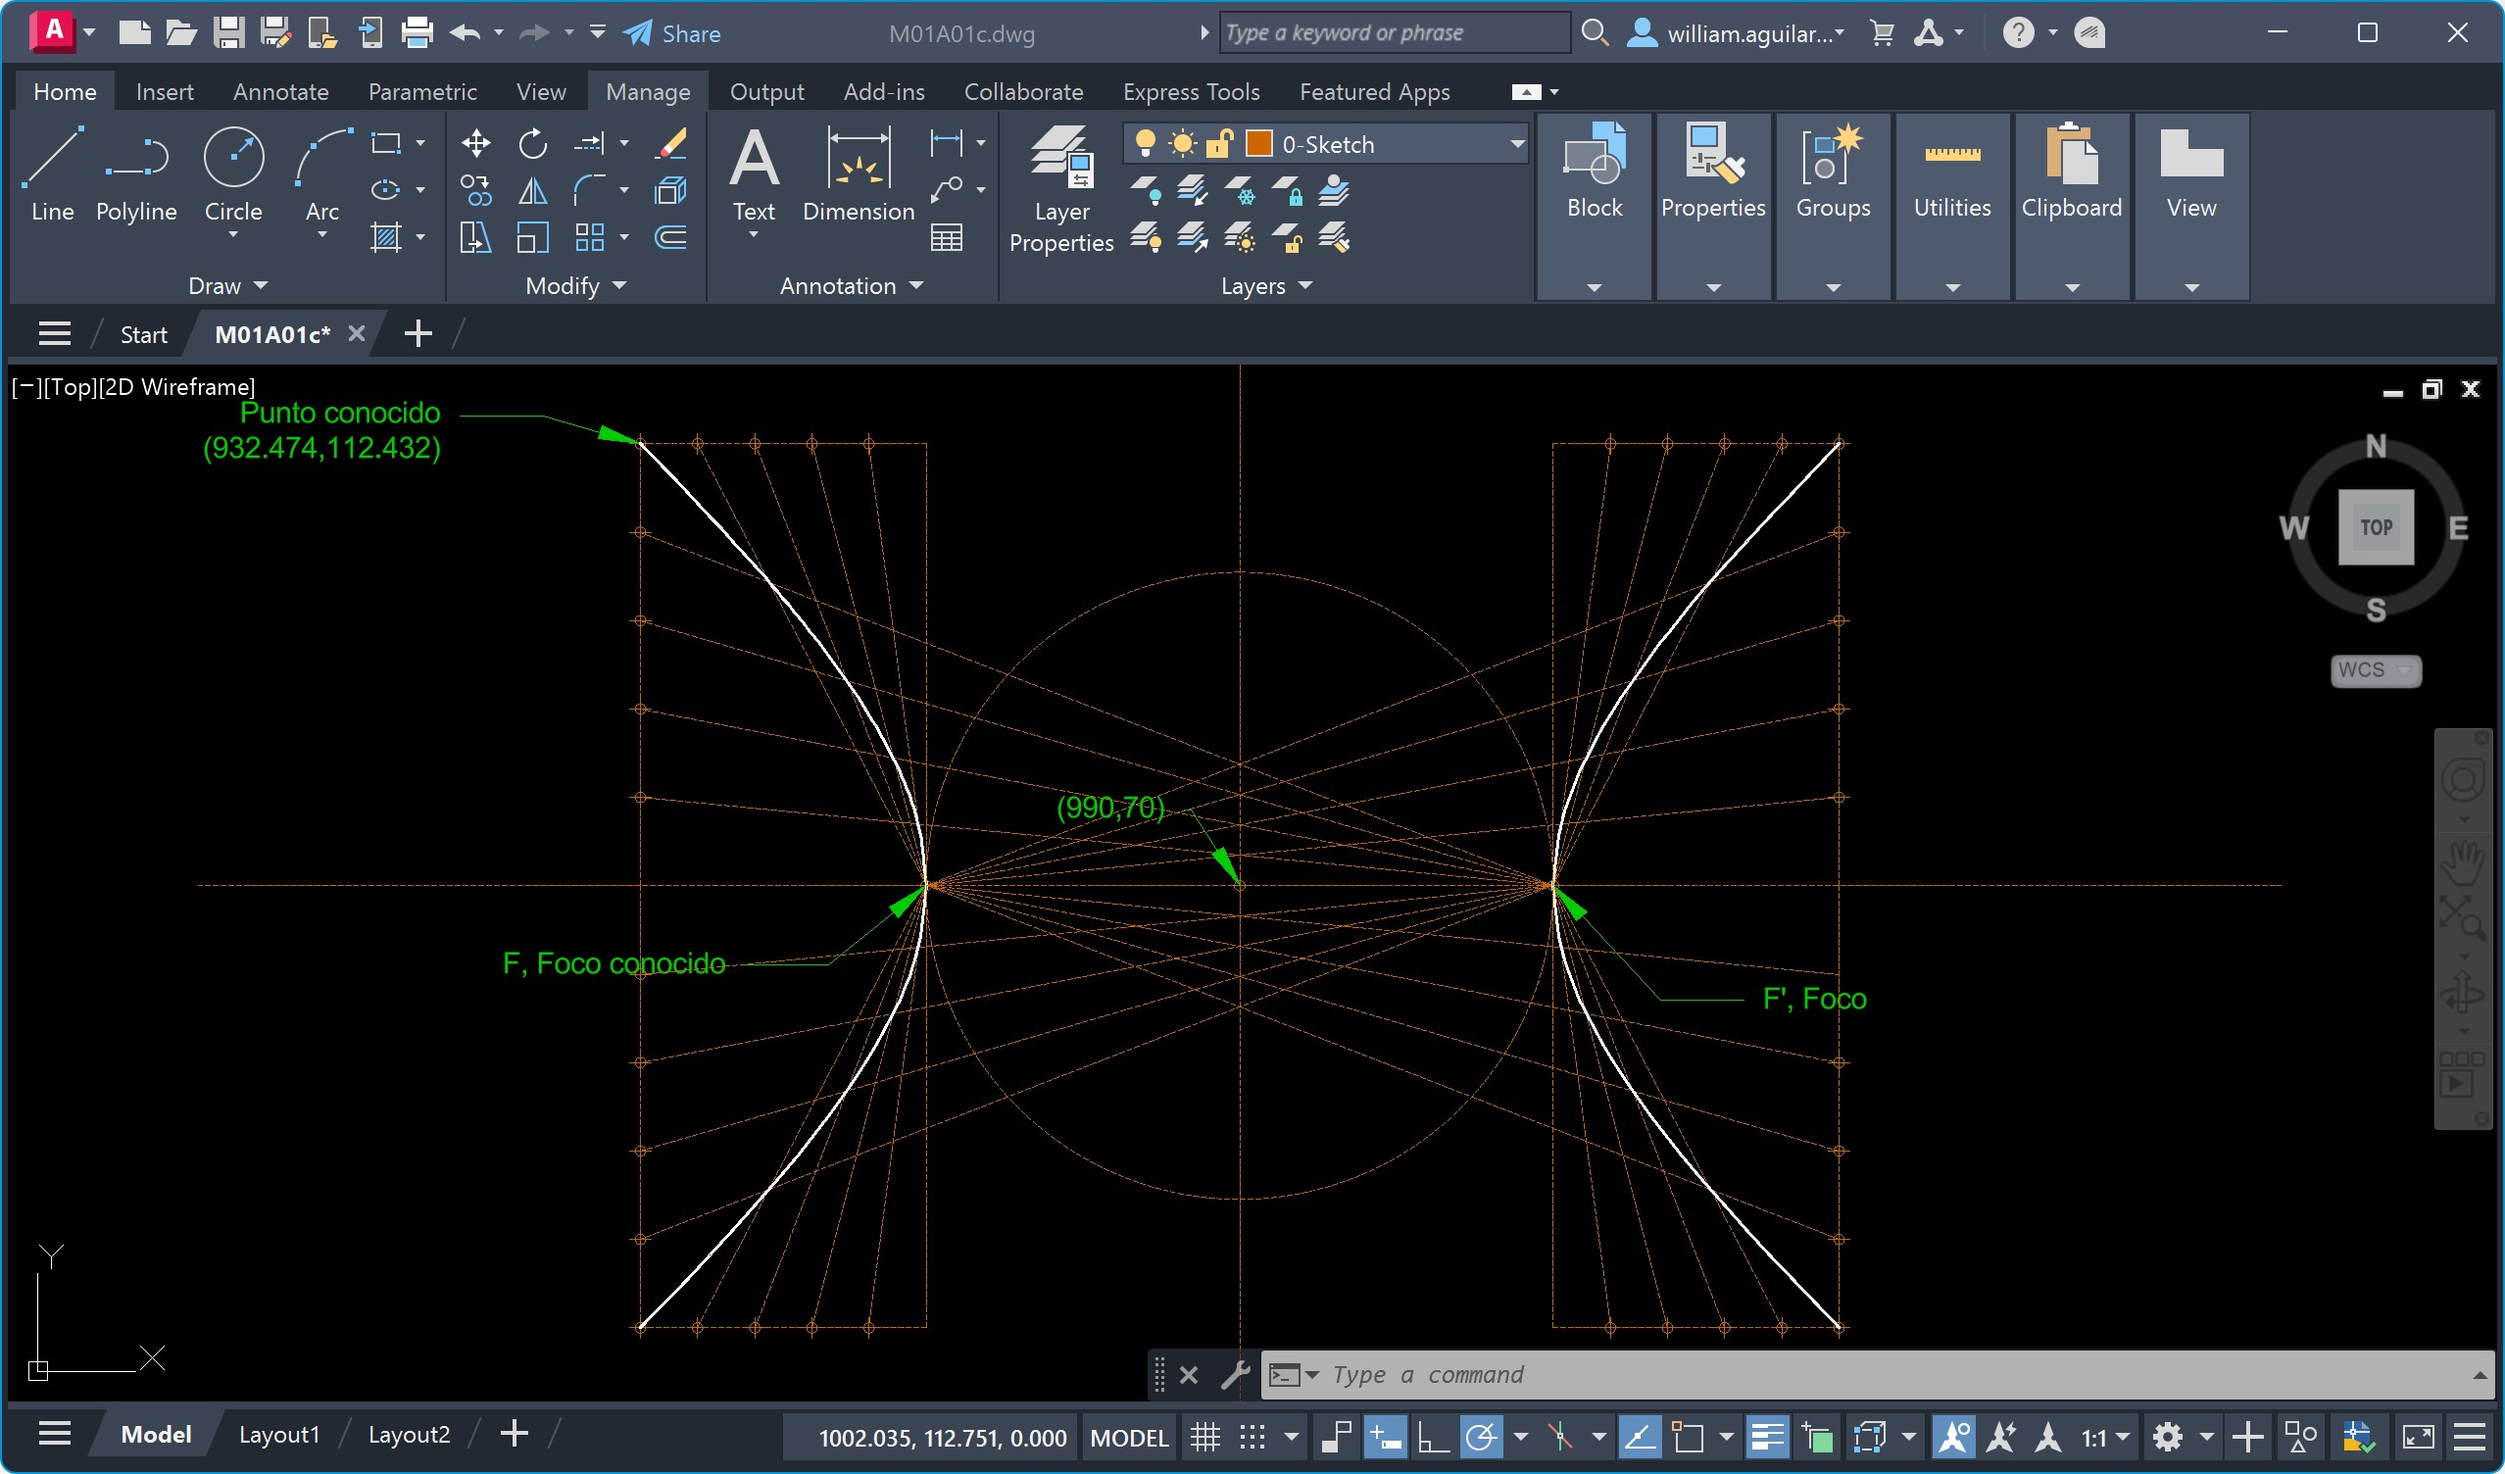
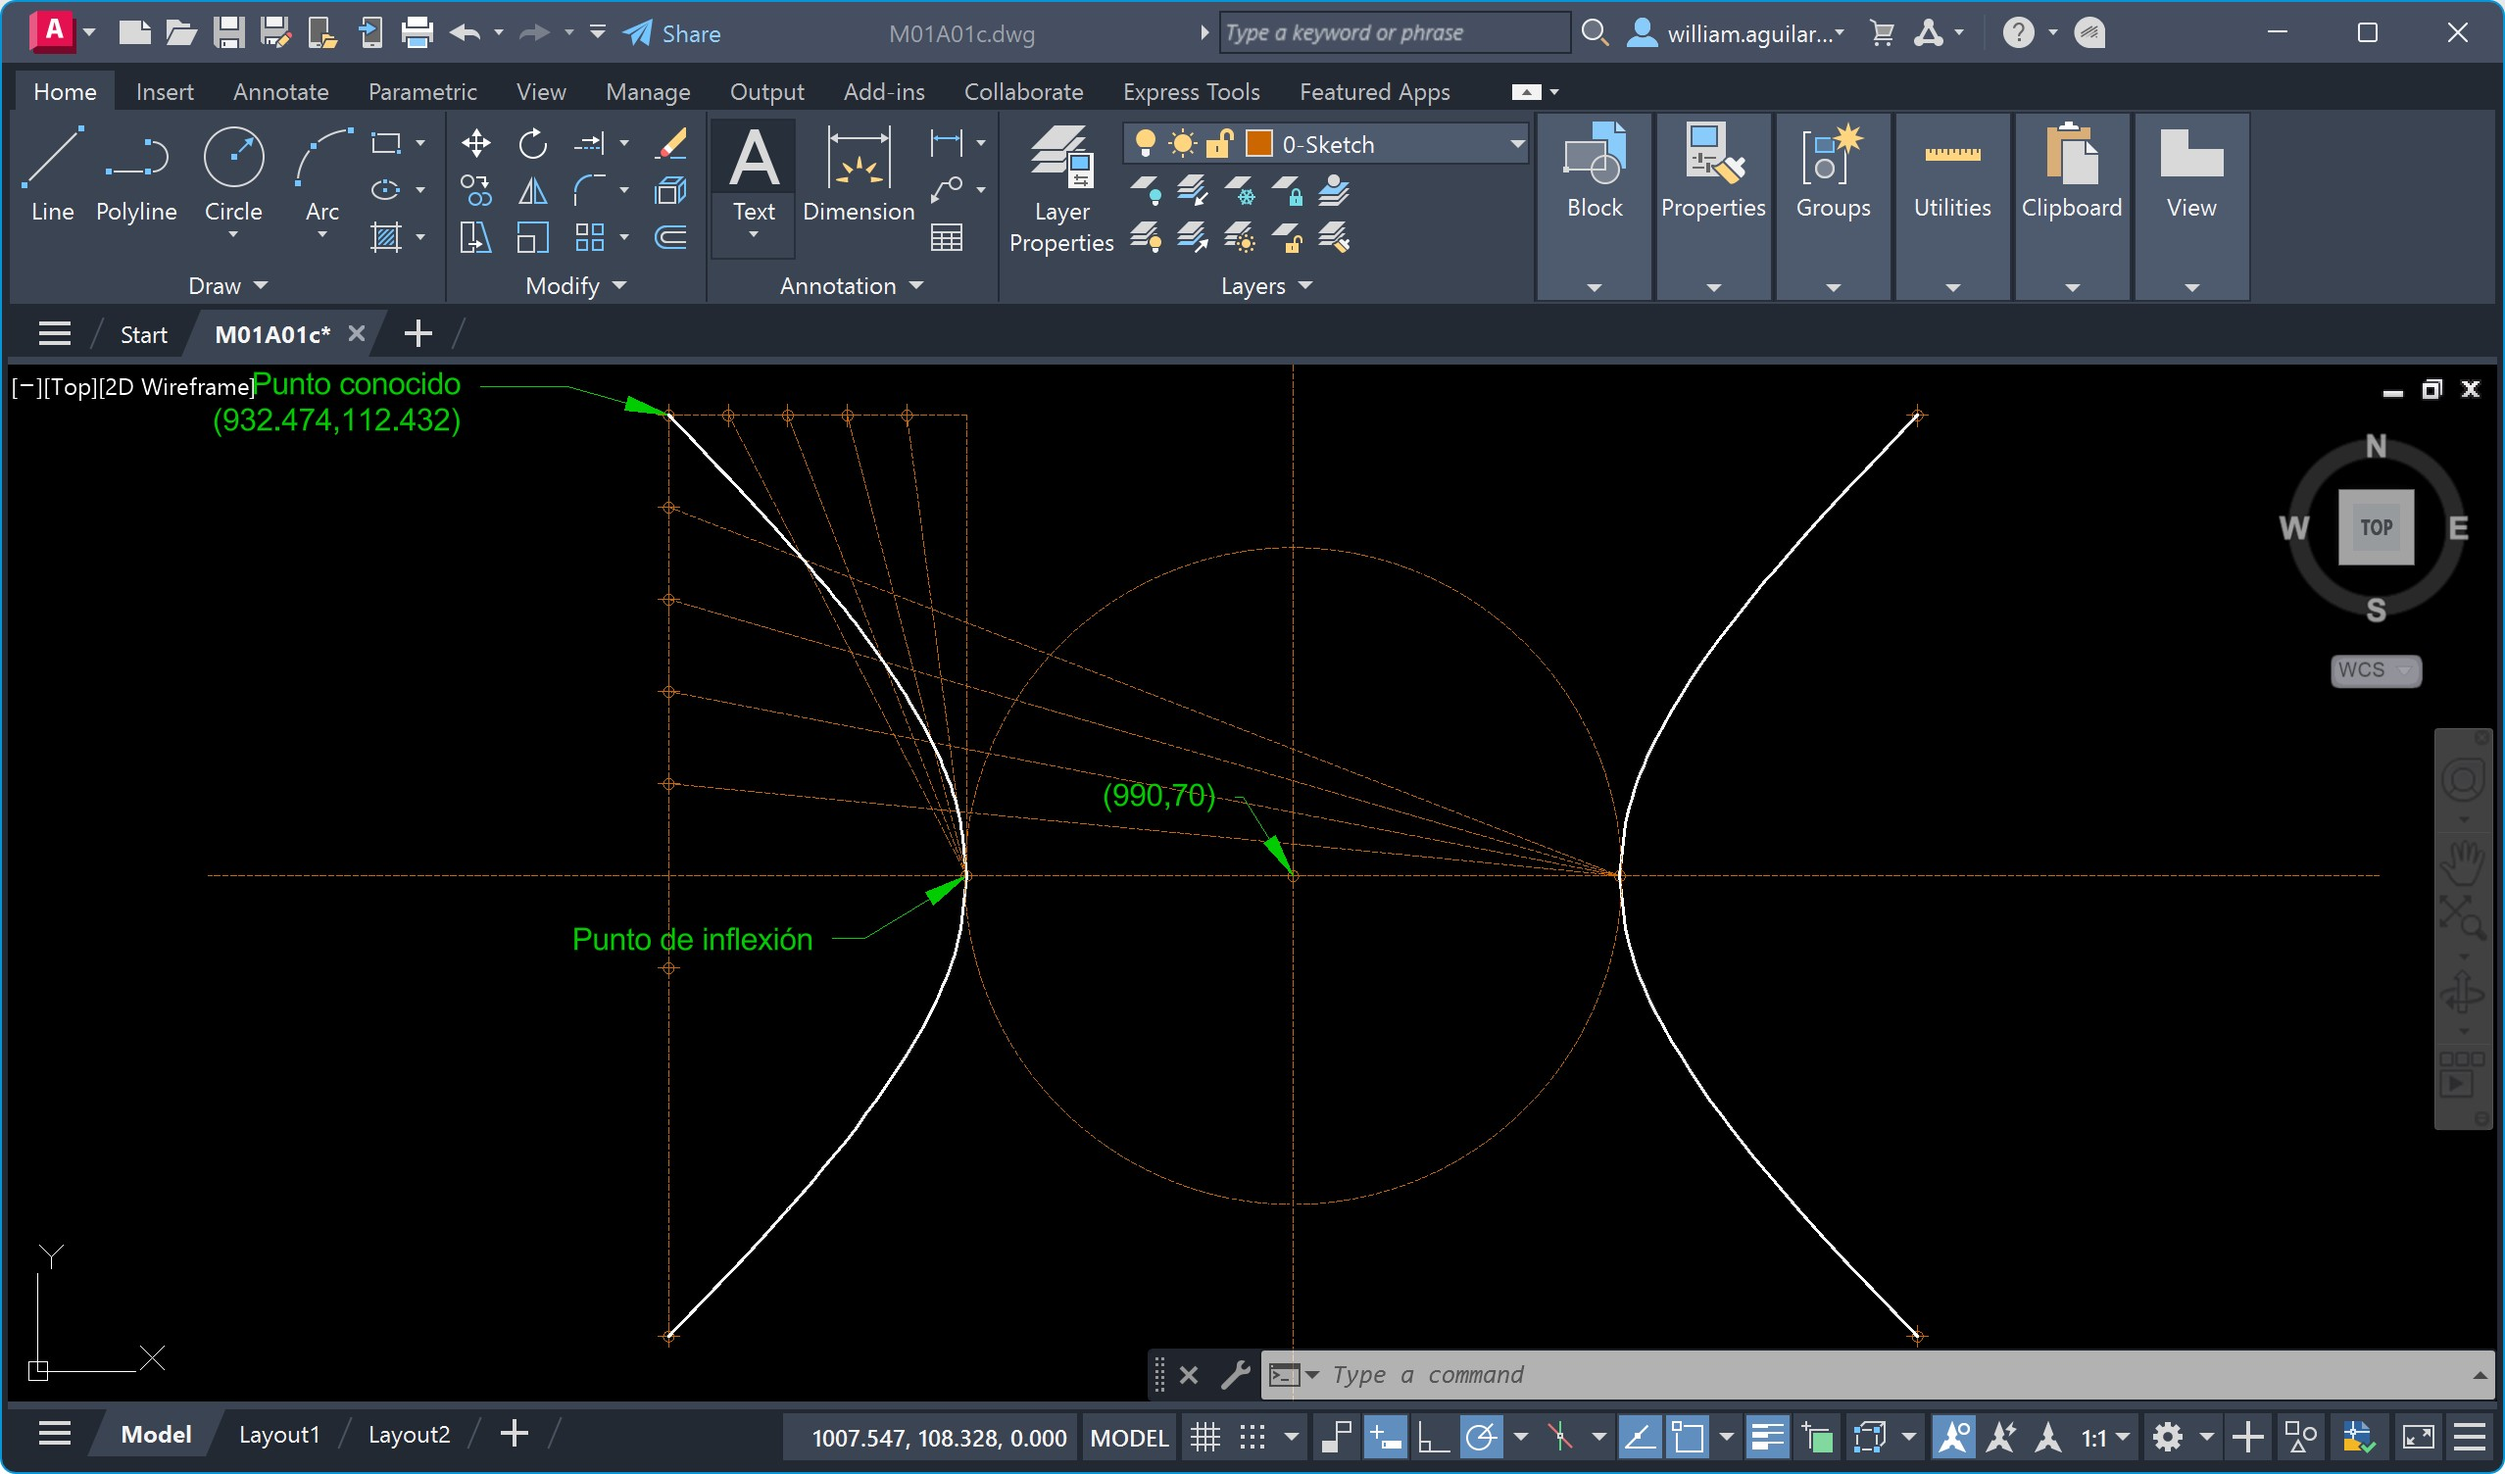
General update.

diff --git a/activity/M01A01c/Readme.md b/activity/M01A01c/Readme.md
@@ -221,7 +221,7 @@ La hipérbola es la última forma geométrica que se estudia en la geometría an
 
 <div align="center"><img src="graph/EcuacionHiperbola.png" alt="R.DAPC" width="60%" border="0" /><br><sub>Tomado de: https://es.wikipedia.org/wiki/Par%C3%A1bola_(matem%C3%A1tica)/</sub></div>
 
-Para su trazado en AutoCAD, existen diferentes metodologías, para este ejemplo, construiremos la hipérbola a partir de la localización de uno de los focos y una coordenada de localización (932.474,112.431).
+Para su trazado en AutoCAD, existen diferentes metodologías, para este ejemplo, construiremos la hipérbola a partir de la localización de uno de los puntos de inflexión y una coordenada de localización de un punto sobre la curva.
 
 <div align="center"><img src="graph/AutoCAD_Hiperbola.jpg" alt="R.DAPC" width="100%" border="0" /></div>
 
